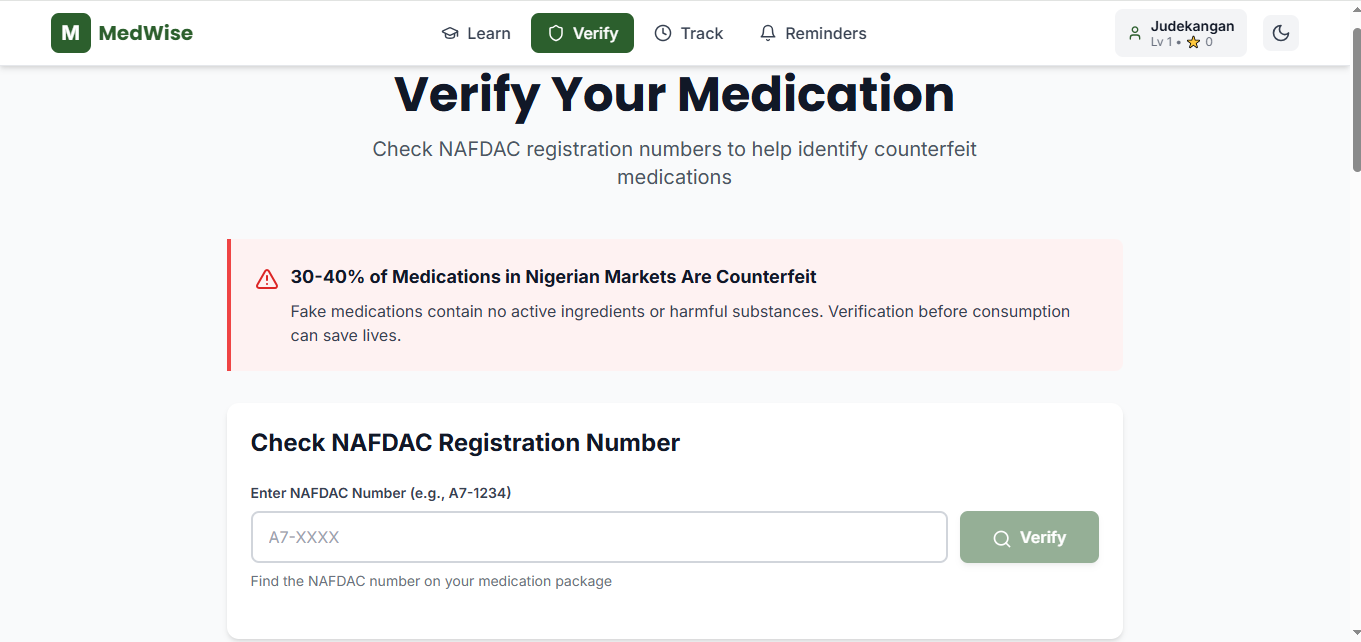
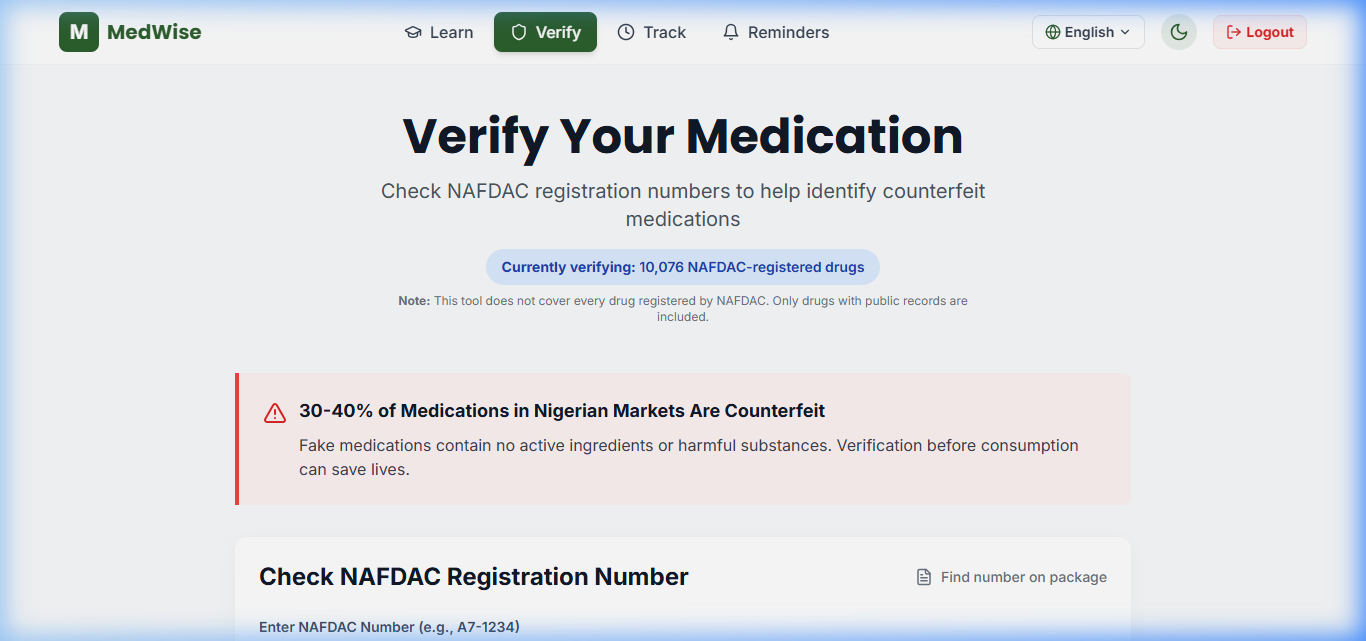
docs: modernize README and refresh screenshots with 7-pillar architecture and reminders

diff --git a/README.md b/README.md
@@ -43,7 +43,10 @@ Built for the **3MTT Knowledge Showcase 2026** under the **Education** pillar.
 *Interactive symptom checker: Evidence-based guidance*
 
 ![Verification](Screenshots%20for%20organisation/verify.png)
-*Medication verification: NAFDAC code and fake drug alerts*
+*Medication verification: NAFDAC code checking*
+
+![Reminders](Screenshots%20for%20organisation/reminders.png)
+*Smart Reminders: Medication adherence with SMS & Push alerts*
 
 ## 🚀 Features
 
@@ -60,34 +63,45 @@ Built for the **3MTT Knowledge Showcase 2026** under the **Education** pillar.
 - **Counterfeit Detection**: Database of verified medications
 - **Community Reporting**: Report suspected fakes
 
-### 3. TRACK Module
-- **Medication Adherence Tracker**: Never miss a dose
-- **Progress Monitoring**: Visual progress bars
-- **Course Completion Rewards**: Gamified adherence
+### 3. TRACK & REMIND Module
+- **Medication Adherence Tracker**: Never miss a dose with smart alerts
+- **Browser Notifications**: Native push alerts for desktop and mobile
+- **Twilio SMS Integration**: Automated text reminders for medication schedules
+- **Gamified Adherence**: Earn points and XP for completing courses
 
 
-### 4. MULTILINGUAL Core (New!)
-- **Native Localization**: The entire platform translates instantly between 5 dominant Nigerian languages.
-- **Supported Languages**: English, Pidgin, Hausa, Yoruba, and Igbo.
+### 4. MULTILINGUAL Core
+- **Native Localization**: The entire platform translates instantly between 5 Nigerian languages (English, Pidgin, Hausa, Yoruba, and Igbo).
 - **Deep Translation**: Database models, Symptom definitions, and UI alerts are fully mapped.
+
+## 🏗 7-Pillar Architecture
+MedWise Nigeria is built on seven core technical and functional pillars:
+1. **Education**: Evidence-based learning modules and quizzes.
+2. **Verification**: Instant NAFDAC code checking for drug authenticity.
+3. **Adherence**: Smart reminders and tracking to ensure full treatment courses.
+4. **Localization**: Breaking language barriers with 5-language native support.
+5. **Persistence**: Robust cloud sync via Supabase (Anonymous + Authenticated).
+6. **Notification**: Multi-channel alerts (Browser Push + Twilio SMS).
+7. **Accessibility**: Offline-first PWA design for inclusive healthcare access.
 
 ## ♿ Accessibility & Inclusion
 - **Bridging Linguistic Divides**: First healthcare app to prioritize and ship native Pidgin, Hausa, Yoruba, and Igbo translations.
 - **Offline-First PWA**: Installs natively to any Android or iOS device. Core features handle offline conditions gracefully.
-- **Mobile Hardware Integration**: 
-  - Exact-match rear camera algorithms for barcode scanning on any device.
-  - Native Android Push Notifications via integrated Service Workers.
+- **Cloud Infrastructure**: 
+  - **Supabase Backend**: Real-time data persistence and secure user management.
+  - **Twilio Communications**: Automated SMS delivery for medication adherence.
 - Dark mode support and highly responsive mobile-first UI.
-- All features work without login for privacy and inclusion.
+- All features work with or without login, with seamless data merging on authentication.
 
 ## 🛠 Tech Stack
 
-- **Frontend**: React 18
-- **Build Tool**: Vite
+- **Frontend**: React 18 + Vite
+- **Backend/Auth**: Supabase
+- **SMS Service**: Twilio API
 - **Styling**: Tailwind CSS
 - **Routing**: React Router v6
 - **Icons**: Lucide React
-- **Deployment**: Vercel (FREE)
+- **Deployment**: Vercel
 
 ## 📦 Installation
 
@@ -174,29 +188,9 @@ medwise-nigeria/
 └── postcss.config.js            # PostCSS configuration
 ```
 
-## 🎬 Demo Video Script (2-4 Minutes)
+## 📄 Solution Brief
 
-### Act 1: The Problem (0:00-0:45)
-"I'm a Medical Laboratory Science student at University of Jos. In my research on antibiotic resistance, I discovered two silent killers threatening Nigerian healthcare..."
-
-**Show stats**: 70% inappropriate use, 30-40% fake drugs
-
-### Act 2: The Solution (0:45-2:30)
-**Demo each module**:
-1. LEARN: Show symptom checker workflow
-2. VERIFY: Demonstrate NAFDAC code checking
-3. TRACK: Walk through medication adherence
-
-### Act 3: Impact (2:30-3:30)
-"For every 100 users: X fewer resistance cases, Y fake drugs detected"
-
-### Closing (3:30-4:00)
-"This isn't just education. It's protection. It's the future of medication safety in Nigeria."
-
-
-## 📄 Solution Brief (1 Page)
-
-**JUDE KANGAN DANGWAM**  
+**JUDE KANGAN DANKWAM**  
 3MTT Fellow ID: FE/23/77283616
 
 ### Problem
@@ -208,11 +202,12 @@ Nigeria faces a dual healthcare crisis: rampant antibiotic resistance—driven b
 
 ### Build
 - **Modern Frontend:** React + Vite for blazing-fast, seamless user experience.
+- **Backend Sync**: Supabase cloud persistence for points, progress, and schedules.
+- **Messaging**: Integrated Twilio SMS for automated adherence reminders.
 - **Responsive Design:** Tailwind CSS ensures accessibility on any device.
 - **Medical Intelligence:** Evidence-based decision trees and expert content.
 - **Inclusive Architecture:** Native multi-language support (English, Pidgin, Hausa, Yoruba, Igbo) bridging the digital divide.
-- **Privacy-First:** 100% local data storage—no login, no tracking.
-- **PWA-Ready:** Installs like an app, features native mobile push notifications, offline databases, and targeted camera WebView hooks.
+- **PWA-Ready:** Installs like an app, features native mobile push notifications and offline support.
 
 ### Impact
 - **Empowers Smarter Choices:** Transforms how Nigerians learn about, use, and verify medications.
@@ -231,17 +226,9 @@ Built by Jude Kangan Dangwam, 500-level Medical Laboratory Science student, Univ
 
 This platform applies real medical research to solve real healthcare problems.
 
-## 📊 Competitive Advantages
-
-1. **Unique Integration**: Only platform combining education + verification
-2. **Medical Expertise**: Built by someone studying the exact problem
-3. **Real-World Grounded**: Based on actual field experience (Block Malaria, medical outreach)
-4. **Sustainable**: No ongoing API costs, fully functional MVP
-5. **Scalable**: Clear path from university pilot to national deployment
-
 ## 🚨 Important Notes
 
-- NAFDAC verification uses demo data for MVP purposes
+- Currently verifying 10,076 nafdac registered drugs
 - For official verification, users directed to contact NAFDAC
 - Symptom checker provides general guidance only, not medical diagnosis
 - Platform encourages professional medical consultation
